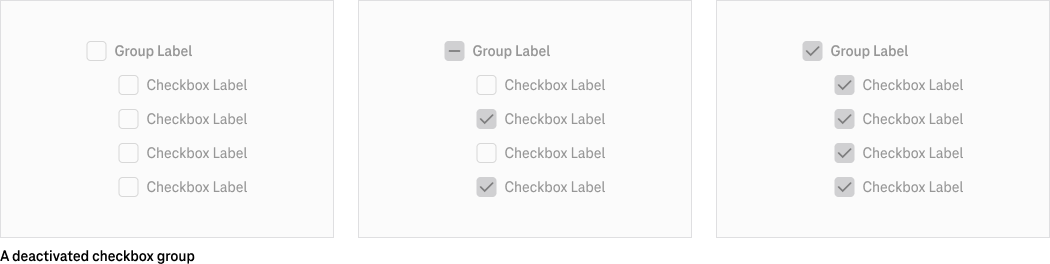
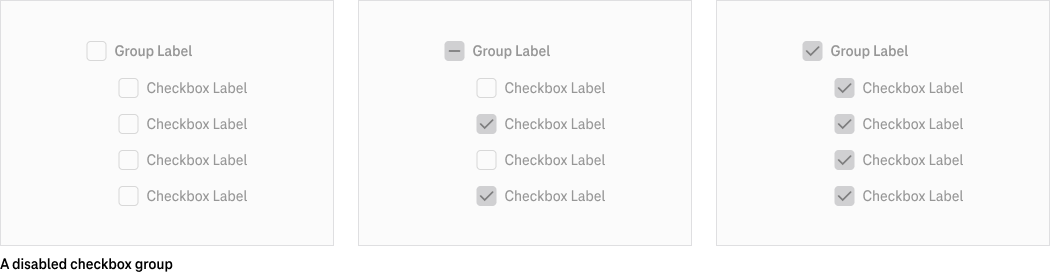
docs: fixes

diff --git a/packages/storybook-vue/stories/components/checkbox-group/checkbox-group.md b/packages/storybook-vue/stories/components/checkbox-group/checkbox-group.md
@@ -7,7 +7,7 @@ A checkbox group combines checkboxes with related selection options to form a gr
 
 ## General
 
-Clicking on the parent checkbox activates or disables a checkbox group. By grouping the content of checkboxes and describing the group, you can present contextual relationships to users more quickly. Interfaces with many options appear smoother and tidier overall.
+Clicking on the parent checkbox activates or deactivates a checkbox group. By grouping the content of checkboxes and describing the group, you can present contextual relationships to users more quickly. Interfaces with many options appear smoother and tidier overall.
 
 ![Checkbox Group](assets/3_components/checkbox-group/checkbox-group.png)
 
@@ -16,7 +16,7 @@ Clicking on the parent checkbox activates or disables a checkbox group. By group
 Use a checkbox group when:
 
 - users should select one or more options from a list (e.g., filters in an online shop or a number of settings) and
-- users should have the opportunity to activate or disable all options at the same time.
+- users should have the opportunity to activate or deactivate all options at the same time.
 
 ### When not to use
 
@@ -30,7 +30,7 @@ Don't use a checkbox group when:
 
 #### Parent checkbox (indeterminate state) (1)
 
-Clicking/tapping on the parent checkbox activates or disables the whole group. The status of this checkbox shows whether all or only some options are activated or all options are disabled.
+Clicking/tapping on the parent checkbox activates or deactivates the whole group. The status of this checkbox shows whether all or only some options are activated or all options are deactivated.
 
 #### Group label (2)
 
@@ -42,7 +42,7 @@ If necessary, you can also provide additional information.
 
 #### Child checkbox (4)
 
-The child checkboxes can be activated or disabled individually.
+The child checkboxes can be activated or deactivated individually.
 
 #### Label (5)
 

diff --git a/packages/storybook-vue/stories/components/rating-stars/rating-stars_de.md b/packages/storybook-vue/stories/components/rating-stars/rating-stars_de.md
@@ -22,7 +22,7 @@ Rating Stars sind ein kundenorientiertes, sehr visuelles Bewertungssystem, mit d
 - die Menge der Produkte/Inhalte eher gering ist und
 - du nicht ausreichend viele Nutzer\*innen hast.
 
-## Typen
+## Basistypen
 
 Rating Stars können interaktiv oder statisch sein. Setze nur einen der beiden Typen innerhalb eines Produkts oder Services ein.
 

diff --git a/packages/storybook-vue/stories/components/button/button_de.md b/packages/storybook-vue/stories/components/button/button_de.md
@@ -42,9 +42,9 @@ Der Sekundär-Button ist weniger auffällig. Nutze ihn für alle weiteren Aktion
 
 ![Image Name](assets/3_components/button/button-secondary-white.png)
 
-<!-- ### Ghost Button
+### Ghost Button
 
-![Image Name](assets/3_components/button/button-ghost.png) -->
+![Image Name](assets/3_components/button/button-ghost.png)
 
 ## Varianten
 

diff --git a/packages/storybook-vue/stories/components/button/button.md b/packages/storybook-vue/stories/components/button/button.md
@@ -39,9 +39,9 @@ The secondary button has less emphasis than the main call to action. Use it for 
 
 ![Image Name](assets/3_components/button/button-secondary-white.png)
 
-<!-- ### Ghost Button
+### Ghost Button
 
-![Image Name](assets/3_components/button/button-ghost.png) -->
+![Image Name](assets/3_components/button/button-ghost.png)
 
 ## Variants
 
